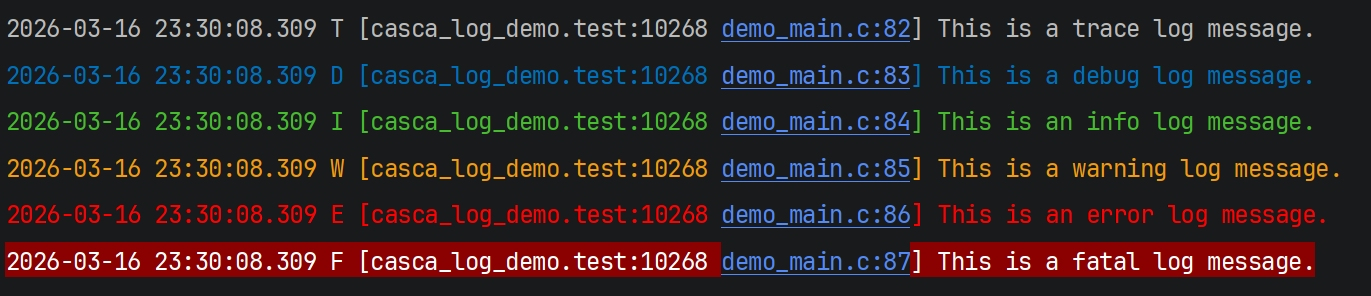
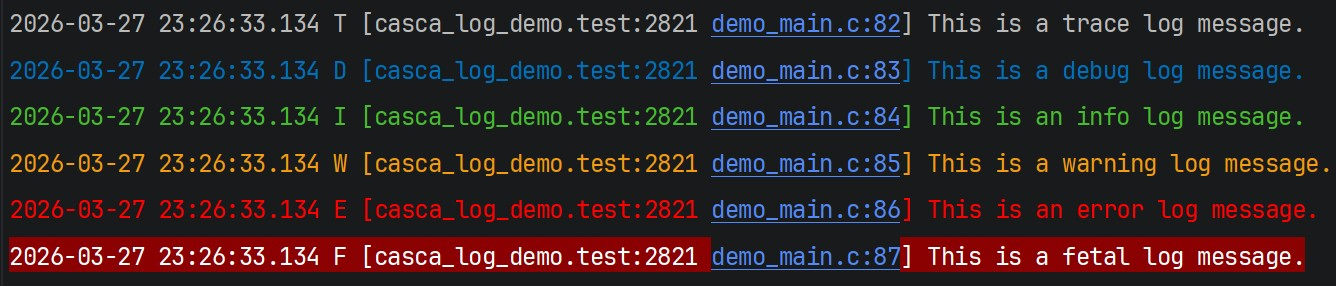
fix(demo): fix fetal msg

diff --git a/demo/demo_main.c b/demo/demo_main.c
@@ -76,7 +76,7 @@ int main(void)
 
     const char *log_messages[] = {
         "This is a trace log message.",   "This is a debug log message.",  "This is an info log message.",
-        "This is a warning log message.", "This is an error log message.", "This is a fatal log message.",
+        "This is a warning log message.", "This is an error log message.", "This is a fetal log message.",
     };
 
     M_LOG_T(context, "test", log_messages[0]);
